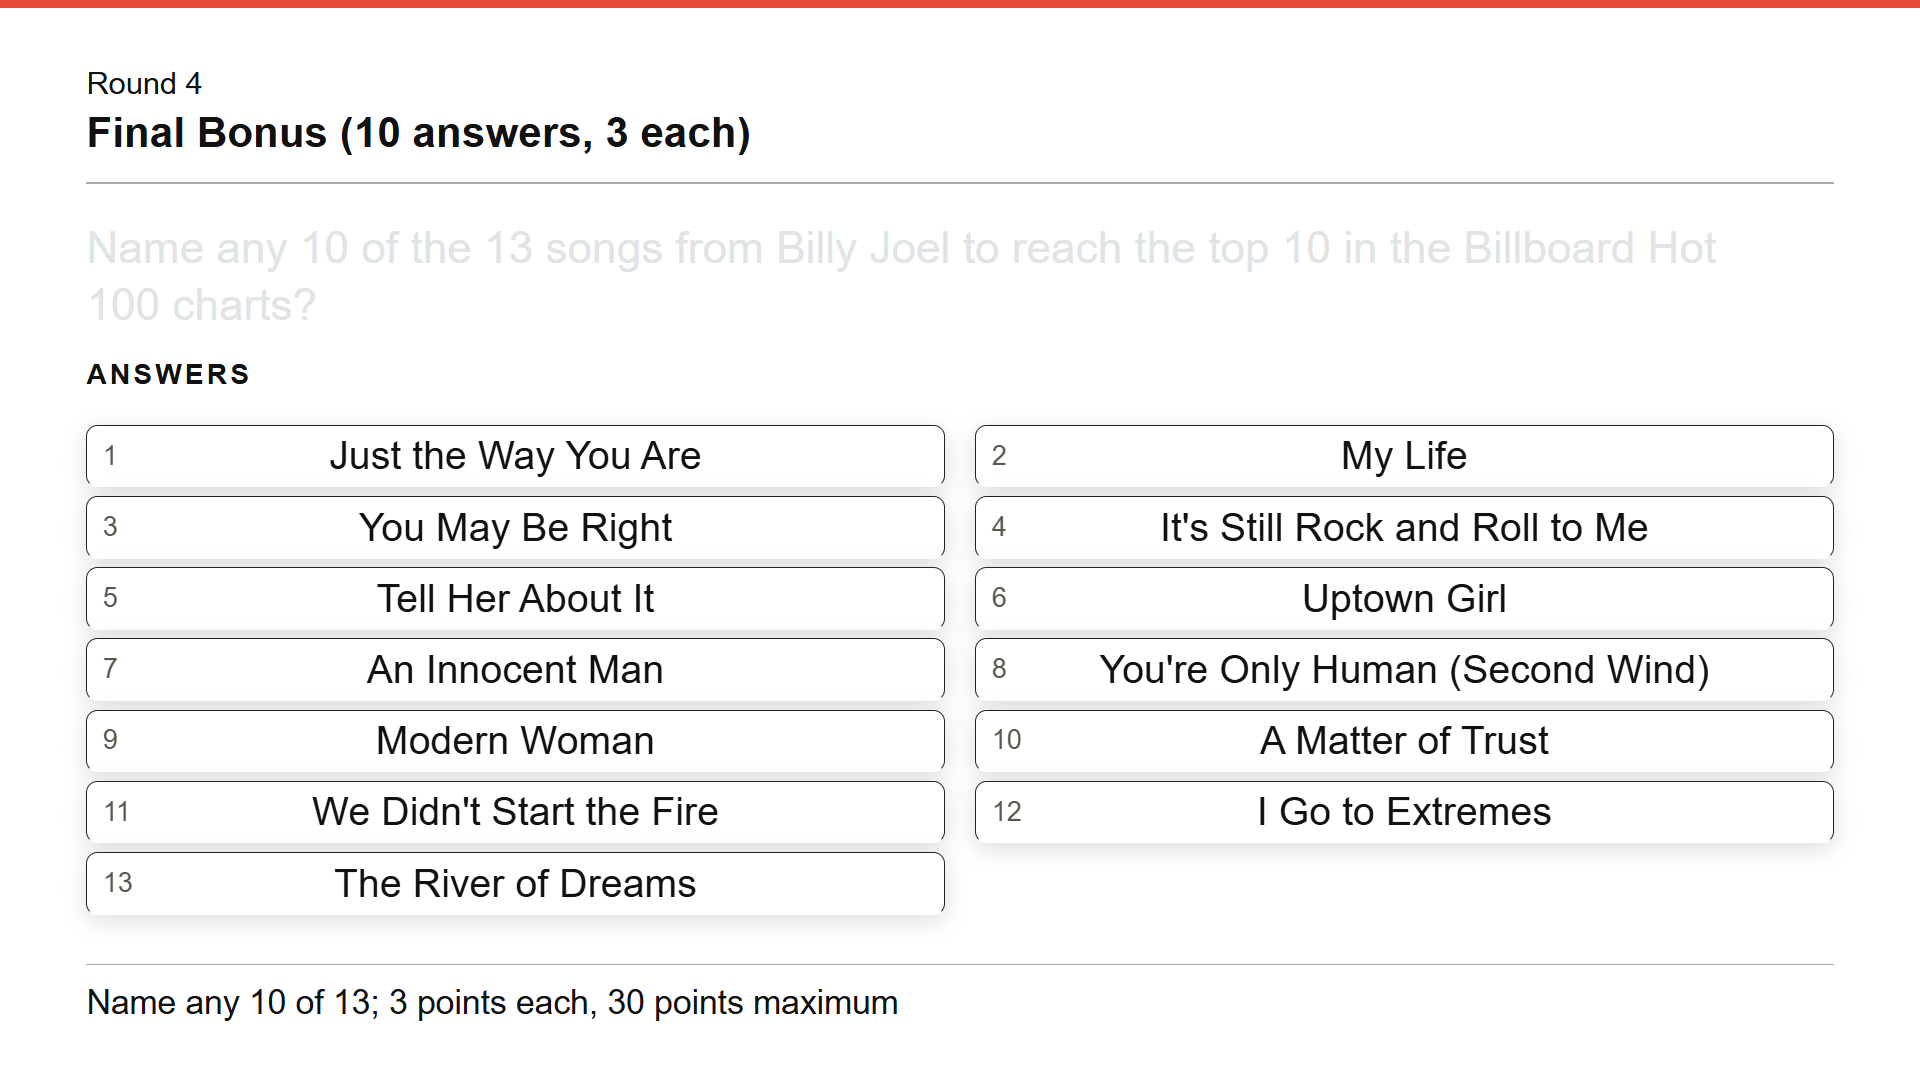
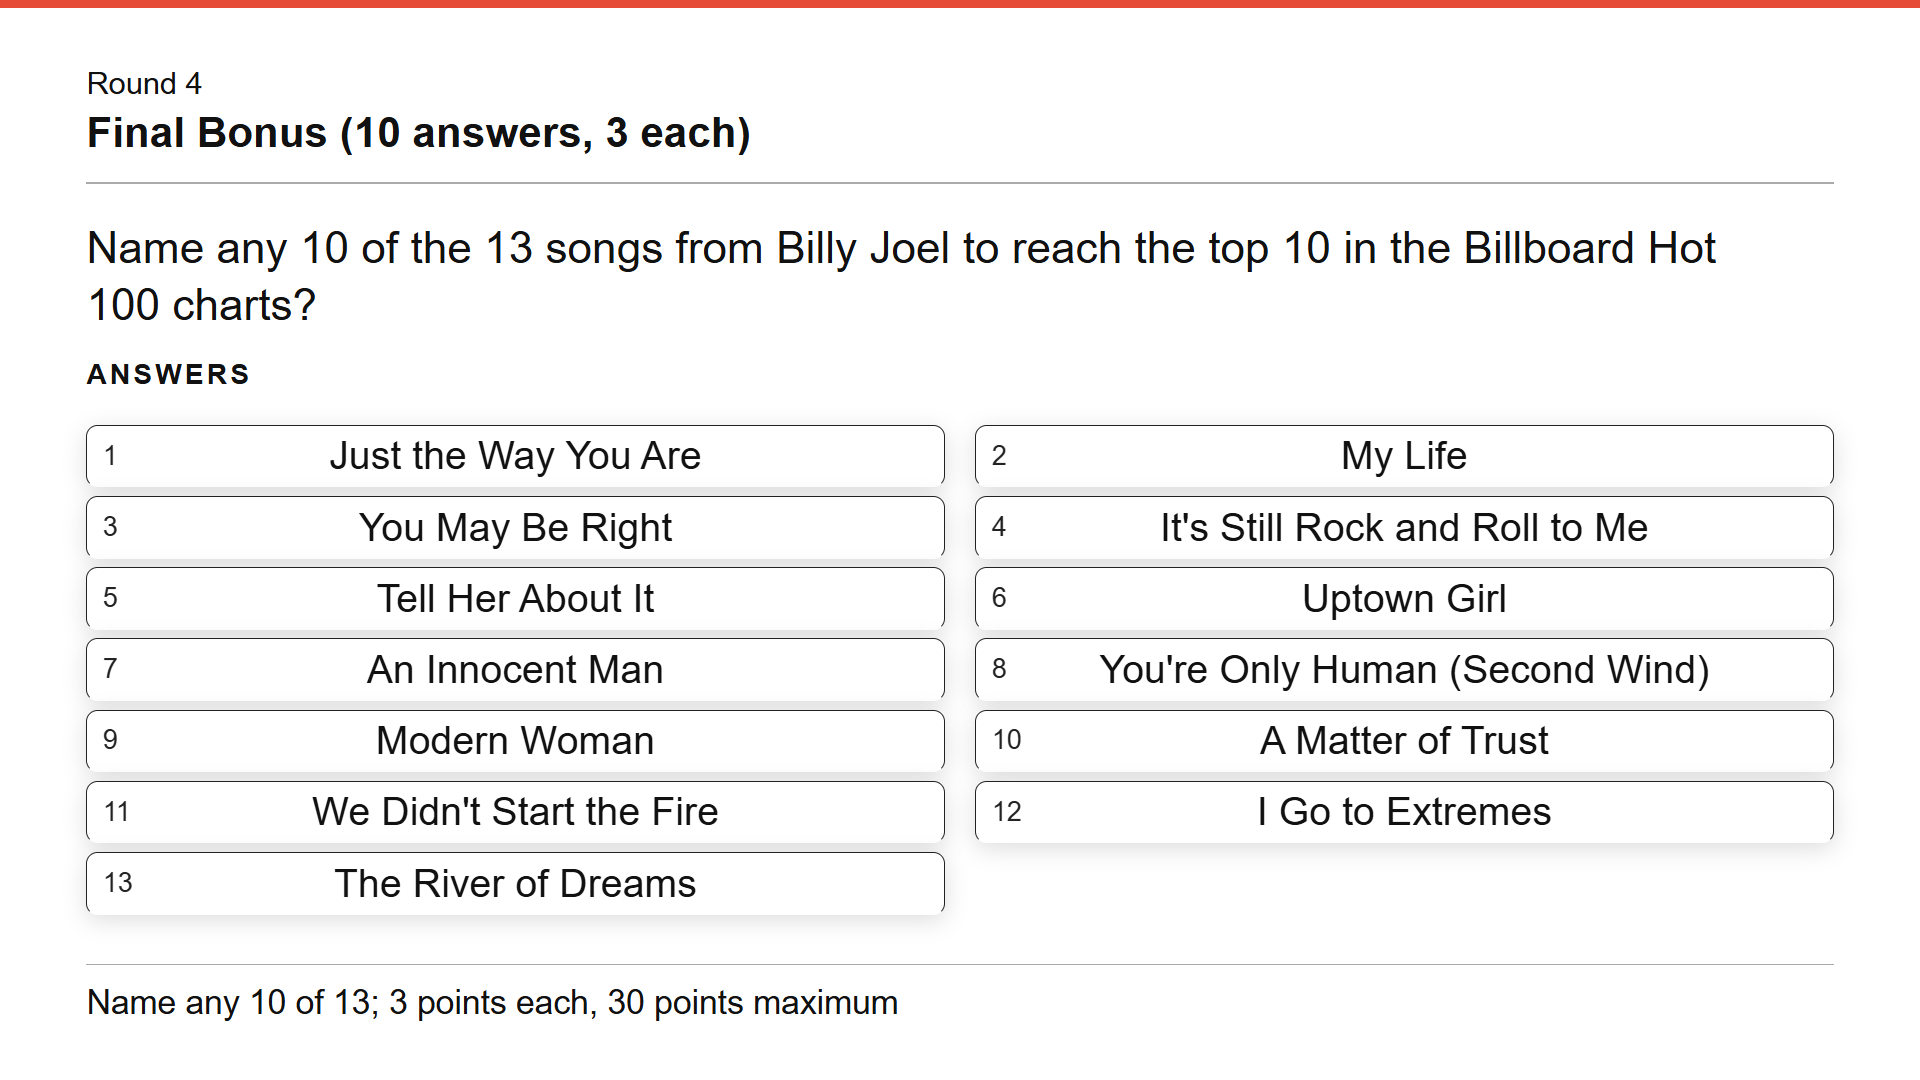
Fix pale trivia text and test slide contrast

Changed region(s): [[0.0312, 0.2139, 0.9062, 0.2444], [0.0312, 0.275, 0.1562, 0.3056]]

diff --git a/src/trivia/dark.css b/src/trivia/dark.css
@@ -249,3 +249,9 @@
 .trivia-slide .trivia-ranks>div.shown{background:#111;color:#fff;border-left-color:#e64b38}
 .trivia-slide .trivia-stage header .time-up{color:#b52317}
 .trivia-slide .paired-answer{color:#111}
+/* Explicit light-theme text for transitions and secondary information. */
+.trivia-slide .trivia-centered h1,.trivia-slide .trivia-centered h2,.trivia-slide .trivia-centered>p{color:#111;text-shadow:none}
+.trivia-slide .trivia-extension,.trivia-slide .item-number,.trivia-slide .answer-shown .item-number,.trivia-slide .paired-answer .answer-label{color:#222}
+.trivia-app .trivia-full-scorebook>p,.trivia-app .trivia-timer-controls>b{color:#222}
+.trivia-app .trivia-message{background:#eee;color:#111}
+.trivia-slide .trivia-answers .trivia-question-text{color:#111}

diff --git a/TEST-REPORT.md b/TEST-REPORT.md
@@ -159,3 +159,6 @@ All 55 unit tests, TypeScript, ESLint and the production build pass. The October
 
 ### Light trivia theme — October 13
 Replaced the green theme with white backgrounds, black text and coral accents across audience slides, presenter and scoring. Typecheck, lint, production build and all-card October browser layout/persistence checks pass at 720p/1080p. Intro inspected visually. Actual sunlight/projector conditions require a venue check.
+
+### Light-theme contrast regression fix
+Corrected inherited pale transition headings, round labels, answer-stage question text and secondary timer/score labels. Browser regression now includes question-title transitions and asserts at least 4.5:1 text contrast on all October round, transition, question and answer screens at 720p/1080p. Checks pass; transition screenshot visually inspected. Typecheck, lint and build pass.
